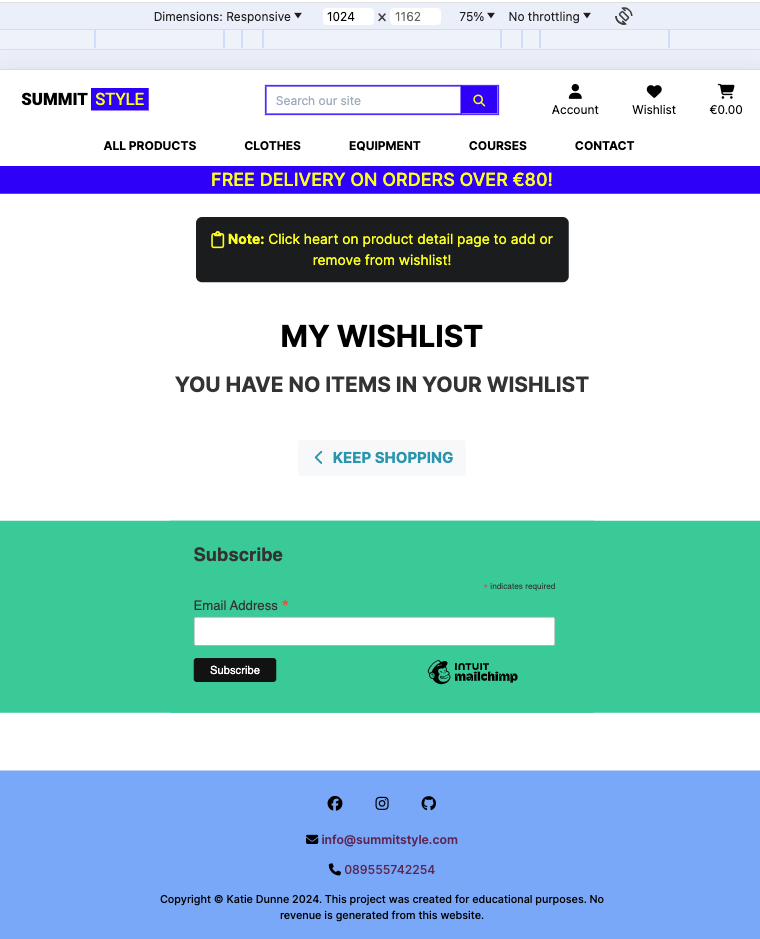
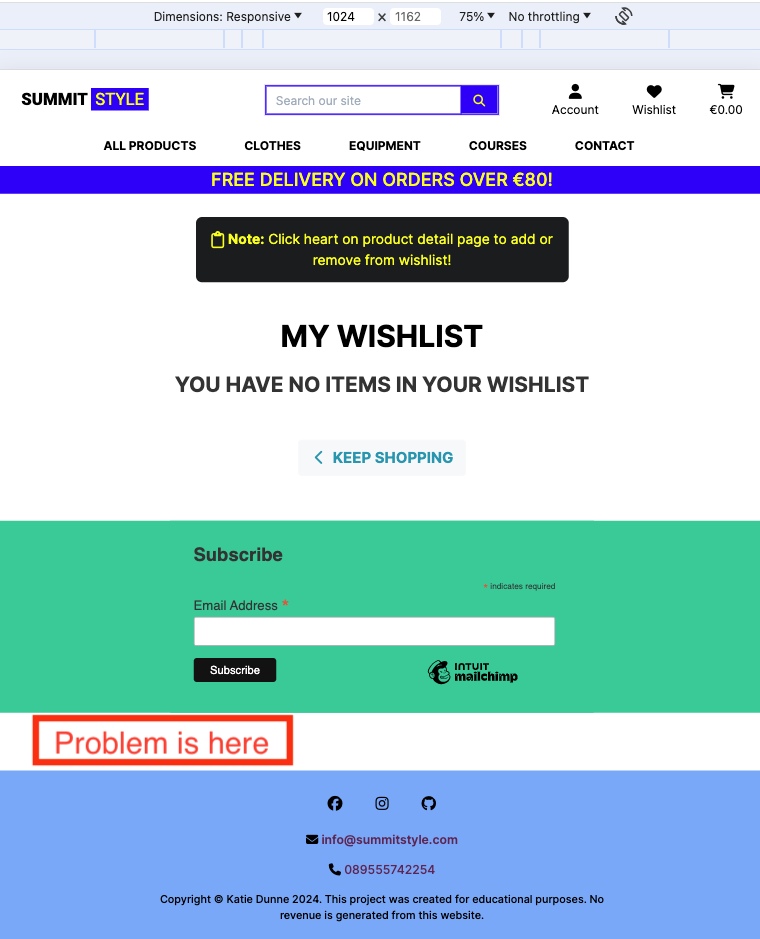
Explain the short content bug some more

Changed region(s): [[0.0303, 0.7412, 0.3934, 0.8339]]

diff --git a/README.md b/README.md
@@ -690,11 +690,15 @@ This, Charge.retrieve retrieves the details of a charge that has previously been
 
 When there was not enough content on a page. It was not reaching the whole way down to the footer and there was a strange gap at the bottom of the page on lots of the pages on the website. See the screenshot below that dipicts this problem.
 
-![Short content bug](docs/readme_images/bugs/short_content_bug1.png)
+![Short content bug 1](docs/readme_images/bugs/short_content_bug1.png)
 
 The fix is in the screenshot below. I set the contents of the container to flex. The items in the container were set to arrange vertically in a column. Flex grow was set to 1 and this means the contents will grow to take up all the available space on the vertical axis.
 
-![Short content bug](docs/readme_images/bugs/short_content_bug2.png)
+![Short content bug 2](docs/readme_images/bugs/short_content_bug2.png)
+
+See the screenshot below, to see what it looks like since it was fixed.
+
+![Short content bug 3](docs/readme_images/bugs/short_content_bug3.png)
 
 3. allauth?
 
